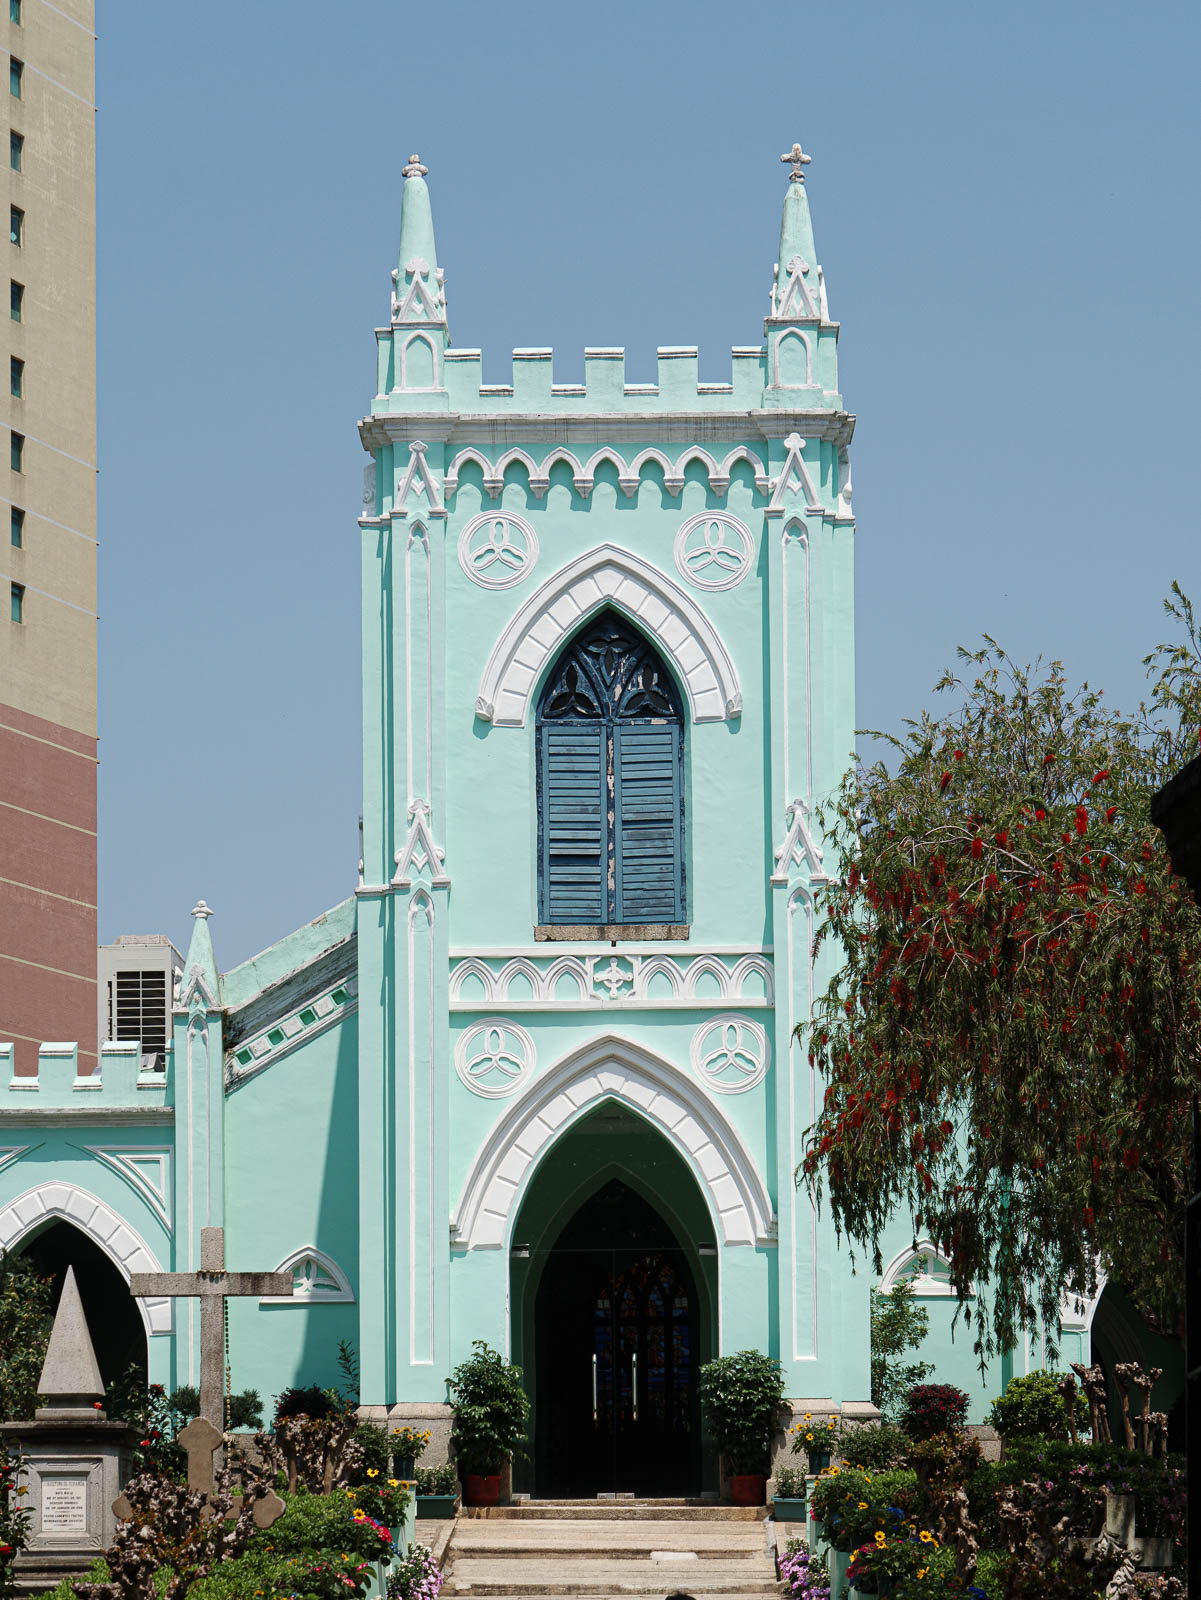
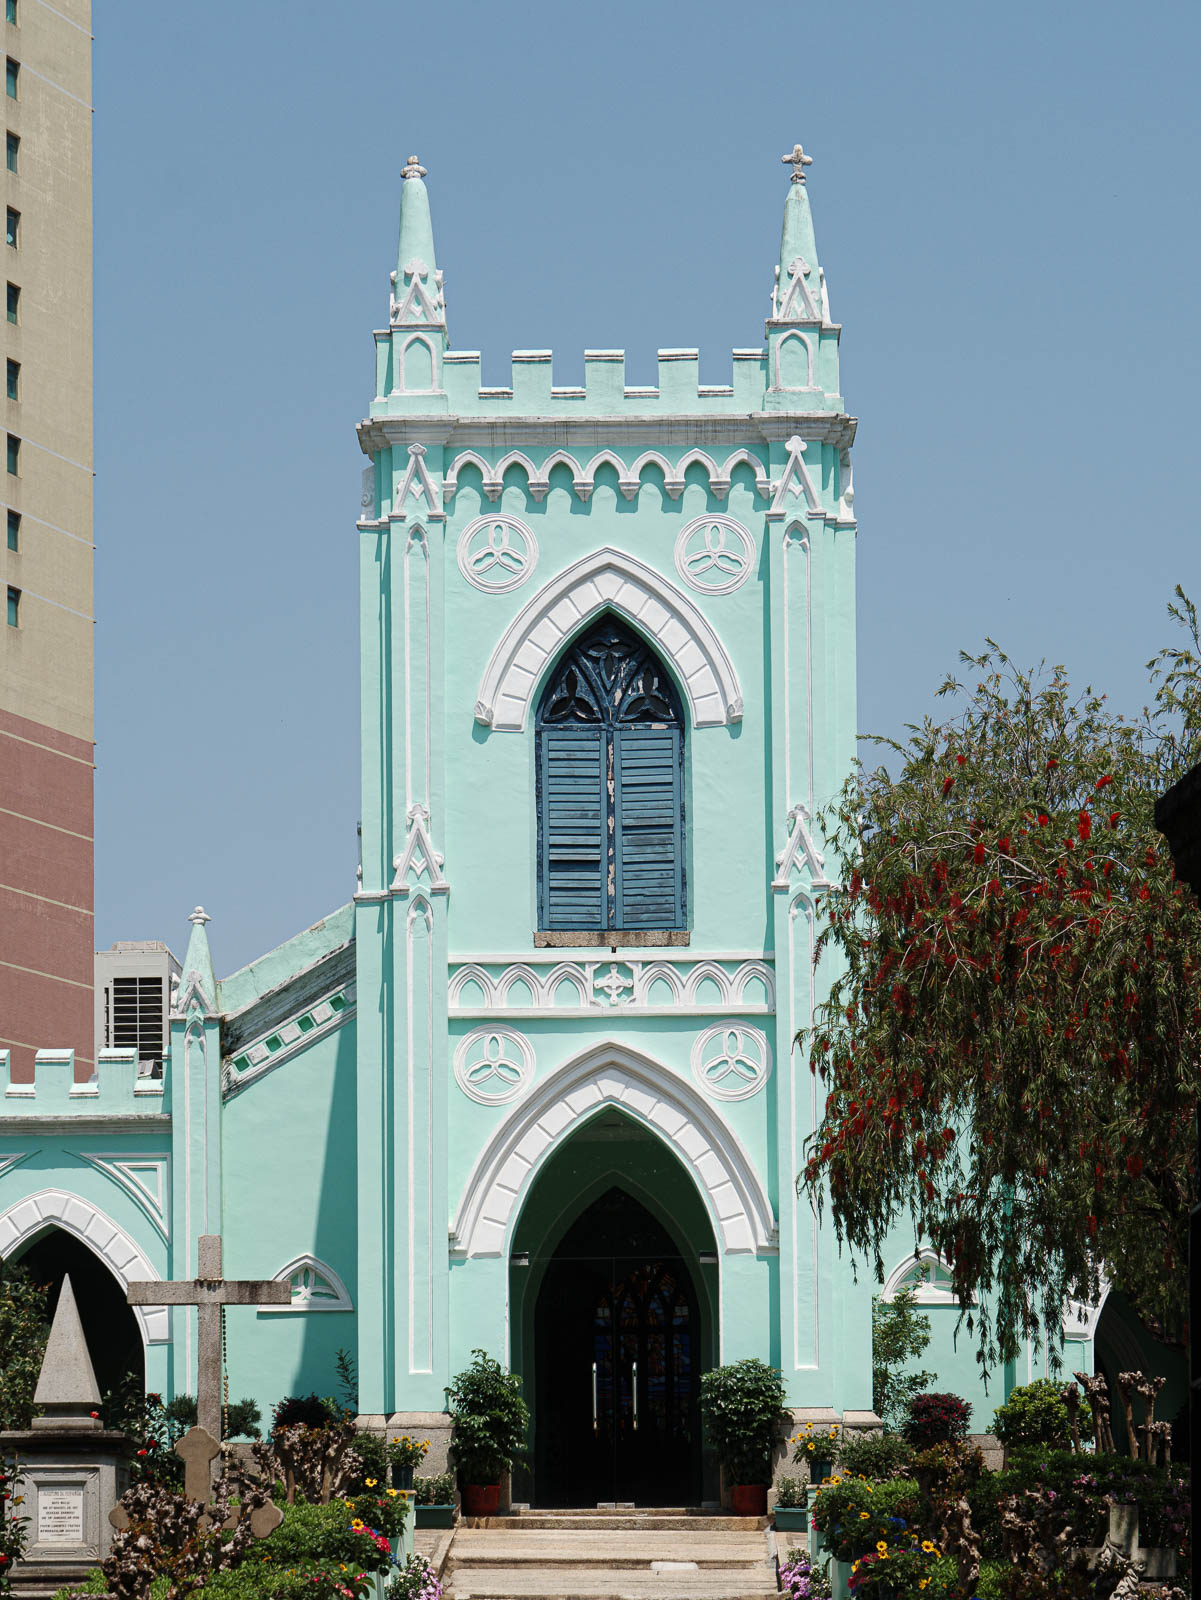
chore：light theme

diff --git a/themes/gallery/layouts/partials/gallery.html b/themes/gallery/layouts/partials/gallery.html
@@ -49,19 +49,7 @@
     {{ range sort $images (.Params.sort_by | default "Name") (.Params.sort_order | default "asc") }}
       {{ $image := .image }}
 
-      {{ $origRatio := div (float $image.Width) (float $image.Height) }}
-      {{ $thumbnail := $image }}
-      {{/* 1.5 冗余 1.48 */}}
-      {{ if ge $origRatio 1.48 }}
-        {{ $width := math.Round (mul $image.Height 1.5) }}
-        {{ $height := $image.Height }}
-        {{ $thumbnail = $image.Crop (printf "%dx%d center" (int $width) (int $height)) }}
-      {{ else }}
-        {{ $width := $image.Width }}
-        {{ $height := math.Round (div $width 1.5) }}
-        {{ $thumbnail = $image.Crop (printf "%dx%d center" (int $width) (int $height)) }}
-      {{ end }}
-      {{ $thumbnail = $thumbnail.Filter (slice images.AutoOrient (images.Process "fit 600x600")) }}
+      {{ $thumbnail := $image.Filter (slice images.AutoOrient (images.Process "fit 600x600")) }}
 
       {{ $full := $image.Filter (slice images.AutoOrient (images.Process "fit 1600x1600")) }}
       {{ $color := index $thumbnail.Colors 0 | default "transparent" }}
@@ -77,3 +65,12 @@
     {{ end }}
   </div>
 </section>
+
+<style>
+.gallery {
+  display: grid;
+  gap: 10px;
+  max-width: 65%;
+  margin: 0 auto;
+}
+</style>

diff --git a/themes/gallery/assets/css/photoswipe/photoswipe.css b/themes/gallery/assets/css/photoswipe/photoswipe.css
@@ -1,7 +1,7 @@
 /*! PhotoSwipe main CSS by Dmytro Semenov | photoswipe.com */
 
 .pswp {
-  --pswp-bg: #000;
+  --pswp-bg: var(--surface-1);
   --pswp-placeholder-bg: #222;
   
 

diff --git a/themes/gallery/assets/css/photoswipe/photoswipe-dynamic-caption-plugin.css b/themes/gallery/assets/css/photoswipe/photoswipe-dynamic-caption-plugin.css
@@ -1,5 +1,5 @@
 .pswp__dynamic-caption {
-  color: #fff;
+  color: var(--text-1);
   position: absolute;
   width: 100%;
   left: 0;

diff --git a/content/city/macau/index.md b/content/city/macau/index.md
@@ -1,14 +1,12 @@
 ---
 title: 澳门
-description: 防沉迷城市。
+description: 你可知Macau不是我真姓。
 categories: ["city"]
 featured_image: 20230426-P1020742.jpg
 sort_by: Name
 sort_order: desc
 #type: gallery
 weight: 4
-params:
-  theme: dark
 resources:
   - src: 20230426-P1020742.jpg
     title: 大三巴牌坊。

diff --git a/content/animal/bird/index.md b/content/animal/bird/index.md
@@ -3,8 +3,6 @@ title: 鸟类
 categories: ["animal", "bird"]
 featured_image: 20241130-DSC02774.jpg
 weight: 2
-params:
-  theme: dark
 resources:
   - src: 20240623-DSC04640.jpg
     title: 麓湖小翠。

diff --git a/content/city/canton/index.md b/content/city/canton/index.md
@@ -8,8 +8,6 @@ sort_order: desc
 menus: "main"
 #type: gallery
 weight: 1
-params:
-  theme: dark
 resources:
   - src: 20241128-DSC02498.jpg
     title: 异木棉的季节，从海珠湖看珠江新城。

diff --git a/content/city/teochew/index.md b/content/city/teochew/index.md
@@ -7,8 +7,6 @@ sort_by: Name
 sort_order: desc
 #type: gallery
 weight: 1
-params:
-  theme: dark
 resources:
   - src: 20241128-DSC02498.jpg
     title: 异木棉的季节，从海珠湖看珠江新城。

diff --git a/content/canton-tower/index.md b/content/canton-tower/index.md
@@ -1,7 +1,7 @@
 ---
 date: 2024-07-03
 featured_image: 20211110-P1000364.jpg
-title: 广州塔
+title: 塔
 featured: true
 private: true # do not show in list, only as feature
 sort_by: Name

diff --git a/content/city/shenzhen/index.md b/content/city/shenzhen/index.md
@@ -7,8 +7,6 @@ sort_by: Name
 sort_order: desc
 #type: gallery
 weight: 2
-params:
-  theme: dark
 resources:
   - src: 20231011-P1060161.jpg
     title: 在深圳湾口岸看春笋大厦。

diff --git a/content/plant/index.md b/content/plant/index.md
@@ -1,9 +1,7 @@
 ---
 title: 植物
-description: 植物。
+description: 花花草草。
 keywords: [plant]
 featured_image: 20250128-DSC09821.jpg
 weight: 2
-params:
-  theme: dark
 ---

diff --git a/content/animal/cat/index.md b/content/animal/cat/index.md
@@ -7,8 +7,6 @@ sort_order: desc
 title: 猫
 #type: gallery
 weight: 1
-params:
-  theme: dark
 resources:
   - src: 20240610-DSC04335.jpg
     title: 猎德大桥上的猫咪

diff --git a/content/city/hongkong/index.md b/content/city/hongkong/index.md
@@ -7,8 +7,6 @@ sort_by: Name
 sort_order: desc
 #type: gallery
 weight: 3
-params:
-  theme: dark
 resources:
   - src: 20231011-P1060448.jpg
     title: 太平山卢吉道。
